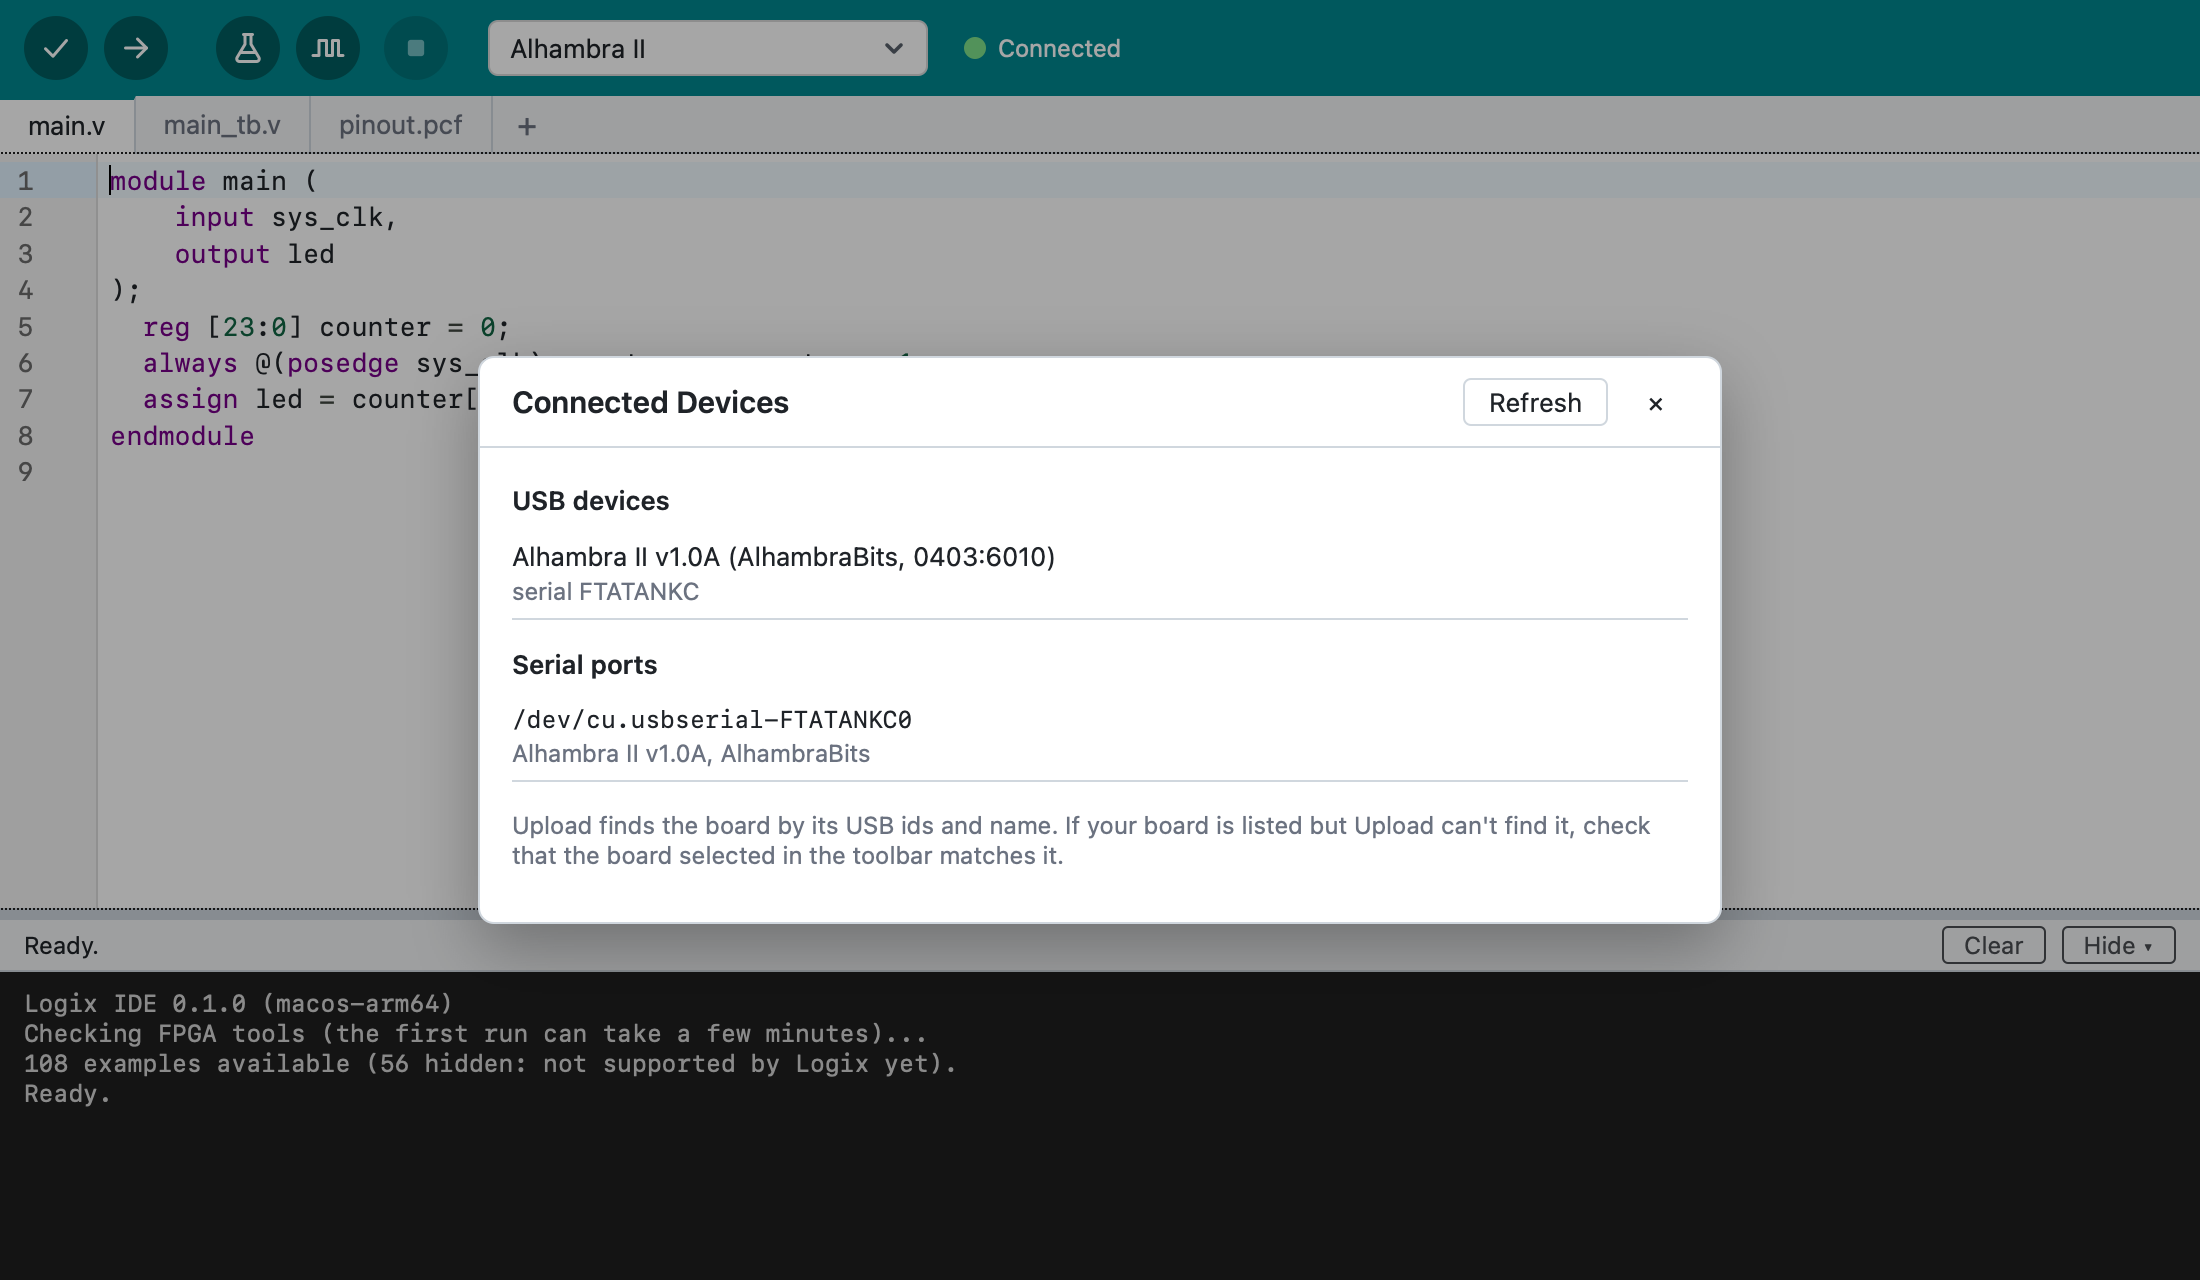
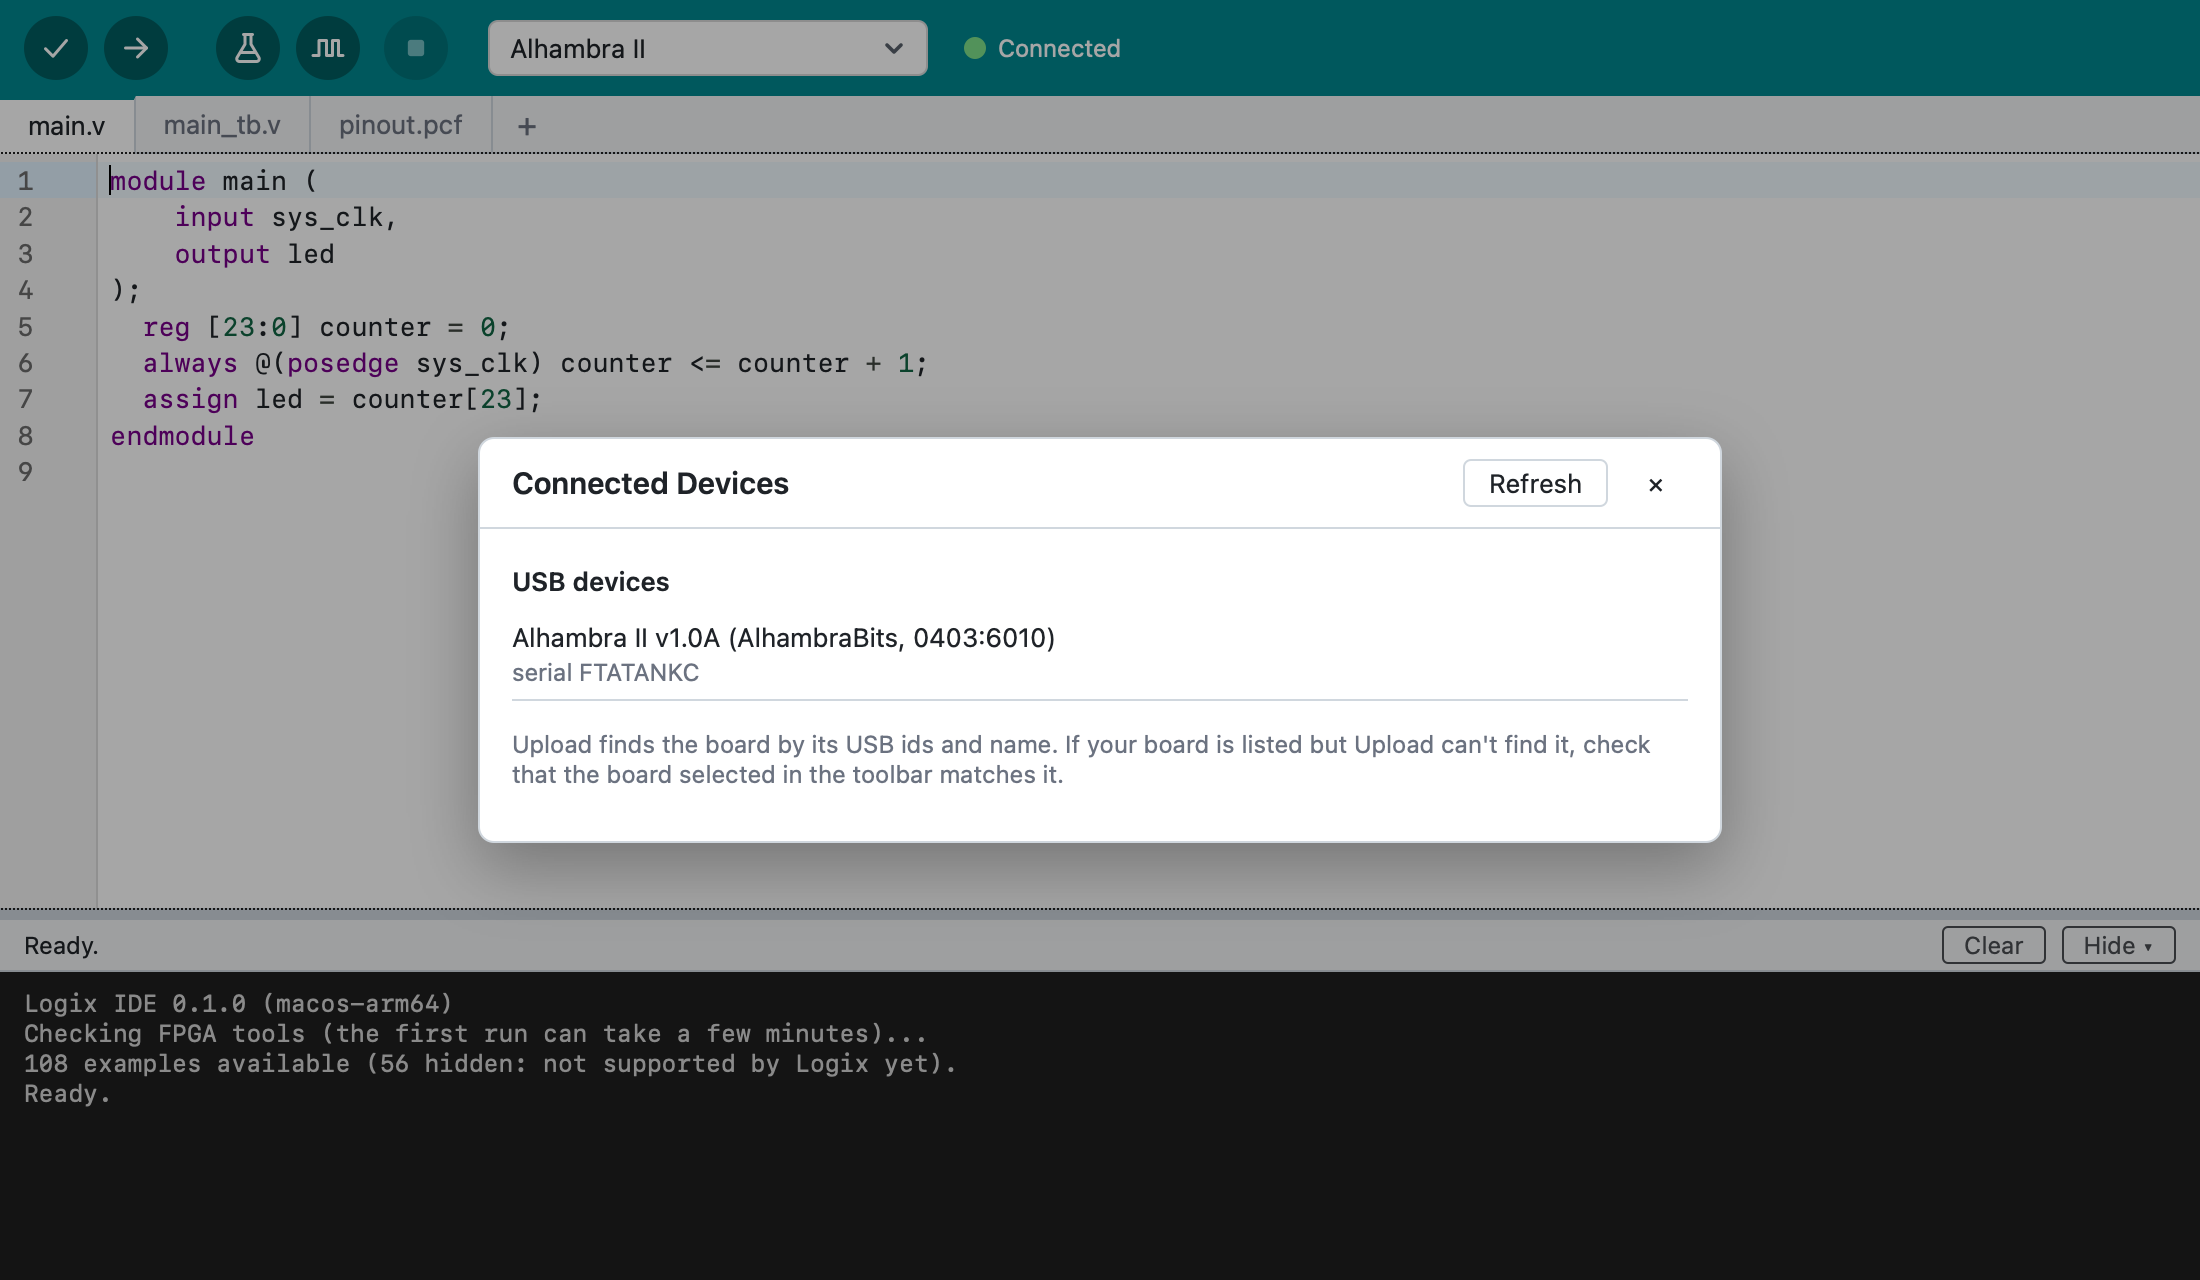
Language server from Logix Engine's verible package; drop serial ports (step 4a)
- verible-verilog-ls's path comes from get_engine_info (the verible
  package's new bin_folder, engine 0230e92) via engine::program_path,
  not from Apio. The language server module moved out of the Apio
  adapter (src-tauri/src/language_server.rs).
- Connected Devices lists USB devices only: the serial ports came from
  Apio and are dropped with it.
- CLAUDE.md records the step 4 decisions: per-board examples from Apio's,
  relicensed to Apache-2.0 and bundled in the app; main.v/main kept;
  flat folders, without the "Not used in the build" exclusions.

Changed region(s): [[0.2164, 0.2812, 0.8036, 0.75]]

diff --git a/ui/src/lib/DevicesDialog.svelte b/ui/src/lib/DevicesDialog.svelte
@@ -1,4 +1,4 @@
-<!-- Tools > Connected Devices: the USB devices and serial ports connected. -->
+<!-- Tools > Connected Devices: the USB devices connected. -->
 <script lang="ts">
   import type { Devices } from "./backend";
   import { usbLabel } from "./devices";
@@ -74,21 +74,6 @@
           </ul>
         {/if}
 
-        <h3>Serial ports</h3>
-        {#if devices.serial.length === 0}
-          <p class="muted">None.</p>
-        {:else}
-          <ul>
-            {#each devices.serial as d, i (i)}
-              <li>
-                <span class="port">{d.port}</span>
-                <span class="muted"
-                  >{[d.product, d.manufacturer].filter(Boolean).join(", ")}</span
-                >
-              </li>
-            {/each}
-          </ul>
-        {/if}
 
         <p class="muted hint">
           Upload finds the board by its USB ids and name. If your board is
@@ -176,10 +161,6 @@
     padding: 6px 0;
     border-bottom: 1px solid var(--border);
     font-size: 13px;
-  }
-  .port {
-    font-family: ui-monospace, Menlo, Consolas, monospace;
-    font-size: 12px;
   }
   .muted {
     color: var(--muted);

diff --git a/ui/src/lib/backend.ts b/ui/src/lib/backend.ts
@@ -153,19 +153,9 @@ export interface UsbDevice {
   serialNumber: string;
 }
 
-export interface SerialDevice {
-  /** E.g. "/dev/cu.usbserial-FTATANKC0". */
-  port: string;
-  vid: string;
-  pid: string;
-  manufacturer: string;
-  product: string;
-}
-
-/** Connected devices: USB devices from Logix Engine, serial ports from Apio. */
+/** Connected devices, from Logix Engine. */
 export interface Devices {
   usb: UsbDevice[];
-  serial: SerialDevice[];
 }
 
 /** A board that matches a connected USB device. */
@@ -401,7 +391,7 @@ export const backend = {
   onLspClosed: (handler: () => void): Promise<UnlistenFn> =>
     listen("lsp-closed", () => handler()),
 
-  /** The connected USB devices and serial ports. */
+  /** The connected USB devices. */
   scanDevices: (): Promise<Devices> => invoke<Devices>("scan_devices"),
 
   /** The boards that match the connected USB devices (silent). */

diff --git a/ui/src/lib/devices.test.ts b/ui/src/lib/devices.test.ts
@@ -28,10 +28,10 @@ describe("devices", () => {
   });
 
   it("lists connected devices or gives tips", () => {
-    expect(deviceSummaryLines({ usb: [alhambra], serial: [] })[1]).toBe(
+    expect(deviceSummaryLines({ usb: [alhambra] })[1]).toBe(
       "  • Alhambra II v1.0A (AlhambraBits, 0403:6010)",
     );
-    expect(deviceSummaryLines({ usb: [], serial: [] })[0]).toBe(
+    expect(deviceSummaryLines({ usb: [] })[0]).toBe(
       "No USB devices are connected.",
     );
   });

diff --git a/ui/e2e/app.e2e.ts b/ui/e2e/app.e2e.ts
@@ -316,7 +316,6 @@ test("lists the connected devices", async ({ page }) => {
   );
   const dialog = page.getByRole("dialog", { name: "Connected Devices" });
   await expect(dialog).toContainText("Alhambra II v1.0A (AlhambraBits, 0403:6010)");
-  await expect(dialog).toContainText("/dev/cu.usbserial-FTATANKC0");
   await page.keyboard.press("Escape");
   await expect(dialog).toBeHidden();
 });

diff --git a/ui/e2e/fakeBackend.ts b/ui/e2e/fakeBackend.ts
@@ -345,15 +345,6 @@ export const backend: typeof Real.backend = {
         serialNumber: "FTATANKC",
       },
     ],
-    serial: [
-      {
-        port: "/dev/cu.usbserial-FTATANKC0",
-        vid: "0403",
-        pid: "6010",
-        manufacturer: "AlhambraBits",
-        product: "Alhambra II v1.0A",
-      },
-    ],
   }),
   onOpenRecent: unlisten,
 

diff --git a/src-tauri/src/commands.rs b/src-tauri/src/commands.rs
@@ -439,9 +439,8 @@ pub async fn lsp_start(app: AppHandle, state: State<'_, AppState>) -> Result<(),
     if slot.is_some() {
         return Ok(());
     }
-    let apio = ready_apio(&state).await?;
-    let exe = apio
-        .language_server_path()
+    let engine = ready_engine(&state).await?;
+    let exe = engine::program_path(&engine, "verible", "verible-verilog-ls")
         .await
         .context("Couldn't find the Verilog language server.")?;
     let on_message = {
@@ -459,7 +458,7 @@ pub async fn lsp_start(app: AppHandle, state: State<'_, AppState>) -> Result<(),
             });
         }
     };
-    let server = apio::LanguageServer::start(&exe, on_message, on_exit)
+    let server = crate::language_server::LanguageServer::start(&exe, on_message, on_exit)
         .context("Couldn't start the Verilog language server.")?;
     crate::log!("Language server started: {}", exe.display());
     *slot = Some(server);
@@ -490,30 +489,21 @@ pub async fn lsp_send(state: State<'_, AppState>, message: String) -> Result<(),
     Ok(())
 }
 
-/// The connected USB devices and serial ports.
+/// The connected USB devices.
 #[derive(Debug, Serialize)]
 pub struct Devices {
     usb: Vec<engine::UsbDevice>,
-    serial: Vec<apio::SerialDevice>,
 }
 
-/// The connected USB devices (from the engine) and serial ports (from
-/// Apio, best effort), for Tools > Connected Devices and hints when Upload
-/// can't find the board.
+/// The connected USB devices, for Tools > Connected Devices and hints when
+/// Upload can't find the board.
 #[tauri::command]
 pub async fn scan_devices(state: State<'_, AppState>) -> Result<Devices, UserError> {
     let engine = ready_engine(&state).await?;
     let usb = engine::list_devices(&engine)
         .await
         .context("Couldn't list the connected devices.")?;
-    let serial = match try_ready_apio(&state) {
-        Some(apio) => apio.serial_ports().await.unwrap_or_else(|e| {
-            crate::log!("Can't list the serial ports: {e:#}");
-            Vec::new()
-        }),
-        None => Vec::new(),
-    };
-    Ok(Devices { usb, serial })
+    Ok(Devices { usb })
 }
 
 /// The boards that match the connected USB devices, for the board list's

diff --git a/src-tauri/src/engine/info.rs b/src-tauri/src/engine/info.rs
@@ -1,0 +1,53 @@
+//! Where the engine's packages keep their programs, from `get_engine_info`
+//! (each installed package's `bin_folder`), for programs the IDE runs
+//! itself, such as Verible's language server.
+
+use std::path::PathBuf;
+
+use anyhow::{Context, Result};
+use serde_json::{json, Value};
+
+use super::client::{tool_error, Engine};
+
+/// The path of `program` (without `.exe`) from the installed `package`.
+pub async fn program_path(engine: &Engine, package: &str, program: &str) -> Result<PathBuf> {
+    let info = engine
+        .call("get_engine_info", json!({}), None)
+        .await?
+        .map_err(|e| tool_error("get_engine_info", &e))?;
+    find_program(&info, package, program)
+}
+
+fn find_program(info: &Value, package: &str, program: &str) -> Result<PathBuf> {
+    let folder = info["packages"]
+        .as_array()
+        .into_iter()
+        .flatten()
+        .find(|p| p["name"] == package)
+        .with_context(|| format!("Logix Engine has no {package} package"))?["bin_folder"]
+        .as_str()
+        .with_context(|| format!("Logix Engine's {package} package isn't installed"))?;
+    Ok(PathBuf::from(folder).join(format!("{program}{}", std::env::consts::EXE_SUFFIX)))
+}
+
+#[cfg(test)]
+mod tests {
+    use super::*;
+
+    #[test]
+    fn finds_a_program_in_its_package() {
+        let info = json!({"packages": [
+            {"name": "oss-cad-suite", "status": "missing"},
+            {"name": "verible", "status": "installed", "bin_folder": "/Users/you/.logix/engine/packages/verible/2026-10-22/bin"}
+        ]});
+        assert_eq!(
+            find_program(&info, "verible", "verible-verilog-ls").unwrap(),
+            PathBuf::from(format!(
+                "/Users/you/.logix/engine/packages/verible/2026-10-22/bin/verible-verilog-ls{}",
+                std::env::consts::EXE_SUFFIX
+            ))
+        );
+        assert!(find_program(&info, "oss-cad-suite", "yosys").is_err());
+        assert!(find_program(&info, "nope", "x").is_err());
+    }
+}

diff --git a/src-tauri/src/language_server.rs b/src-tauri/src/language_server.rs
@@ -1,16 +1,15 @@
-//! Verible's Verilog language server (from Apio's packages), for live
+//! Verible's Verilog language server (from Logix Engine's `verible`
+//! package; see `engine::program_path`), for live
 //! errors and other editor help while typing. Logix relays the language
 //! server protocol (LSP) between the server and the editor's LSP client:
 //! this module only frames messages; the UI speaks the protocol.
 
-use std::path::{Path, PathBuf};
+use std::path::Path;
 use std::process::Stdio;
 
 use anyhow::{bail, Context, Result};
 use tokio::io::{AsyncBufRead, AsyncBufReadExt, AsyncReadExt, AsyncWriteExt, BufReader};
 use tokio::process::{Child, ChildStdin, Command};
-
-use super::Apio;
 
 /// Server options: only syntax errors (Verible's style rules would flood
 /// beginners; Verify's lint catches design problems), plus hover info.
@@ -20,18 +19,6 @@ const SERVER_ARGS: &[&str] = &["--ruleset=none", "--lsp_enable_hover=true"];
 pub struct LanguageServer {
     stdin: ChildStdin,
     _child: Child,
-}
-
-impl Apio {
-    /// Where Apio's packages have the language server (silently asks Apio).
-    pub async fn language_server_path(&self) -> Result<PathBuf> {
-        let system = self.api_json("get-system", None).await?;
-        let path = system
-            .pointer("/system/verible-language-server")
-            .and_then(|v| v.as_str())
-            .context("Apio doesn't report a Verilog language server")?;
-        Ok(PathBuf::from(path))
-    }
 }
 
 impl LanguageServer {
@@ -141,7 +128,7 @@ mod tests {
     #[ignore]
     async fn real_language_server() {
         use std::sync::{Arc, Mutex};
-        let exe = PathBuf::from(std::env::var("LOGIX_TEST_VERIBLE_LS").unwrap());
+        let exe = std::path::PathBuf::from(std::env::var("LOGIX_TEST_VERIBLE_LS").unwrap());
         let received = Arc::new(Mutex::new(Vec::<String>::new()));
         let sink = received.clone();
         let mut server =

diff --git a/src-tauri/src/engine/mod.rs b/src-tauri/src/engine/mod.rs
@@ -5,14 +5,14 @@
 //! Moving from Apio to the engine happens step by step: the IDE sets up
 //! the engine at startup, and the board list, Verify, Upload, Run Tests,
 //! Simulate, Show Diagram, Auto Format and the connected devices use it;
-//! the examples, the serial ports and the language server still come from
-//! Apio.
+//! the examples still come from Apio.
 
 mod bundle;
 mod catalog;
 mod client;
 mod devices;
 mod format;
+mod info;
 mod setup;
 mod task;
 
@@ -23,6 +23,7 @@ pub use catalog::{catalog, Board, Catalog};
 pub use client::Engine;
 pub use devices::{list_devices, match_boards, ConnectedBoard, UsbDevice, UsbRule};
 pub use format::format_file;
+pub use info::program_path;
 pub use setup::run_setup;
 pub use task::{run as run_task, TaskInput};
 

diff --git a/src-tauri/src/lib.rs b/src-tauri/src/lib.rs
@@ -4,6 +4,7 @@ mod build_dir;
 mod commands;
 mod download;
 mod engine;
+mod language_server;
 pub mod logging;
 mod menu;
 mod outcome;
@@ -32,7 +33,7 @@ pub struct AppState {
     /// Held while formatting, which reuses one scratch folder.
     format: tokio::sync::Mutex<()>,
     /// The Verilog language server, while running (live errors).
-    lsp: tokio::sync::Mutex<Option<apio::LanguageServer>>,
+    lsp: tokio::sync::Mutex<Option<language_server::LanguageServer>>,
     /// Board and example lists, fetched once per run (boards from the
     /// engine, examples from Apio).
     catalog: tokio::sync::Mutex<Option<Catalog>>,

diff --git a/src-tauri/src/engine/task.rs b/src-tauri/src/engine/task.rs
@@ -785,6 +785,12 @@ mod tests {
         assert!(good.ok, "{good:?}");
         assert!(good.report.as_ref().unwrap().resources.len() > 3);
 
+        // The language server comes from the engine's verible package.
+        let ls = super::super::program_path(&engine, "verible", "verible-verilog-ls")
+            .await
+            .unwrap();
+        assert!(ls.is_file(), "{}", ls.display());
+
         // A syntax error is marked at its line.
         let main = dir.join("main.v");
         let text = std::fs::read_to_string(&main).unwrap();

diff --git a/src-tauri/src/apio/mod.rs b/src-tauri/src/apio/mod.rs
@@ -4,8 +4,6 @@
 
 mod bundle;
 mod catalog;
-mod devices;
-mod language_server;
 mod process;
 mod setup;
 
@@ -17,8 +15,6 @@ use anyhow::{bail, Result};
 use tokio_util::sync::CancellationToken;
 
 pub use catalog::{starter_example, ExampleList, DEFAULT_BOARD};
-pub use devices::SerialDevice;
-pub use language_server::LanguageServer;
 pub use process::strip_ansi;
 pub use setup::run_setup;
 
